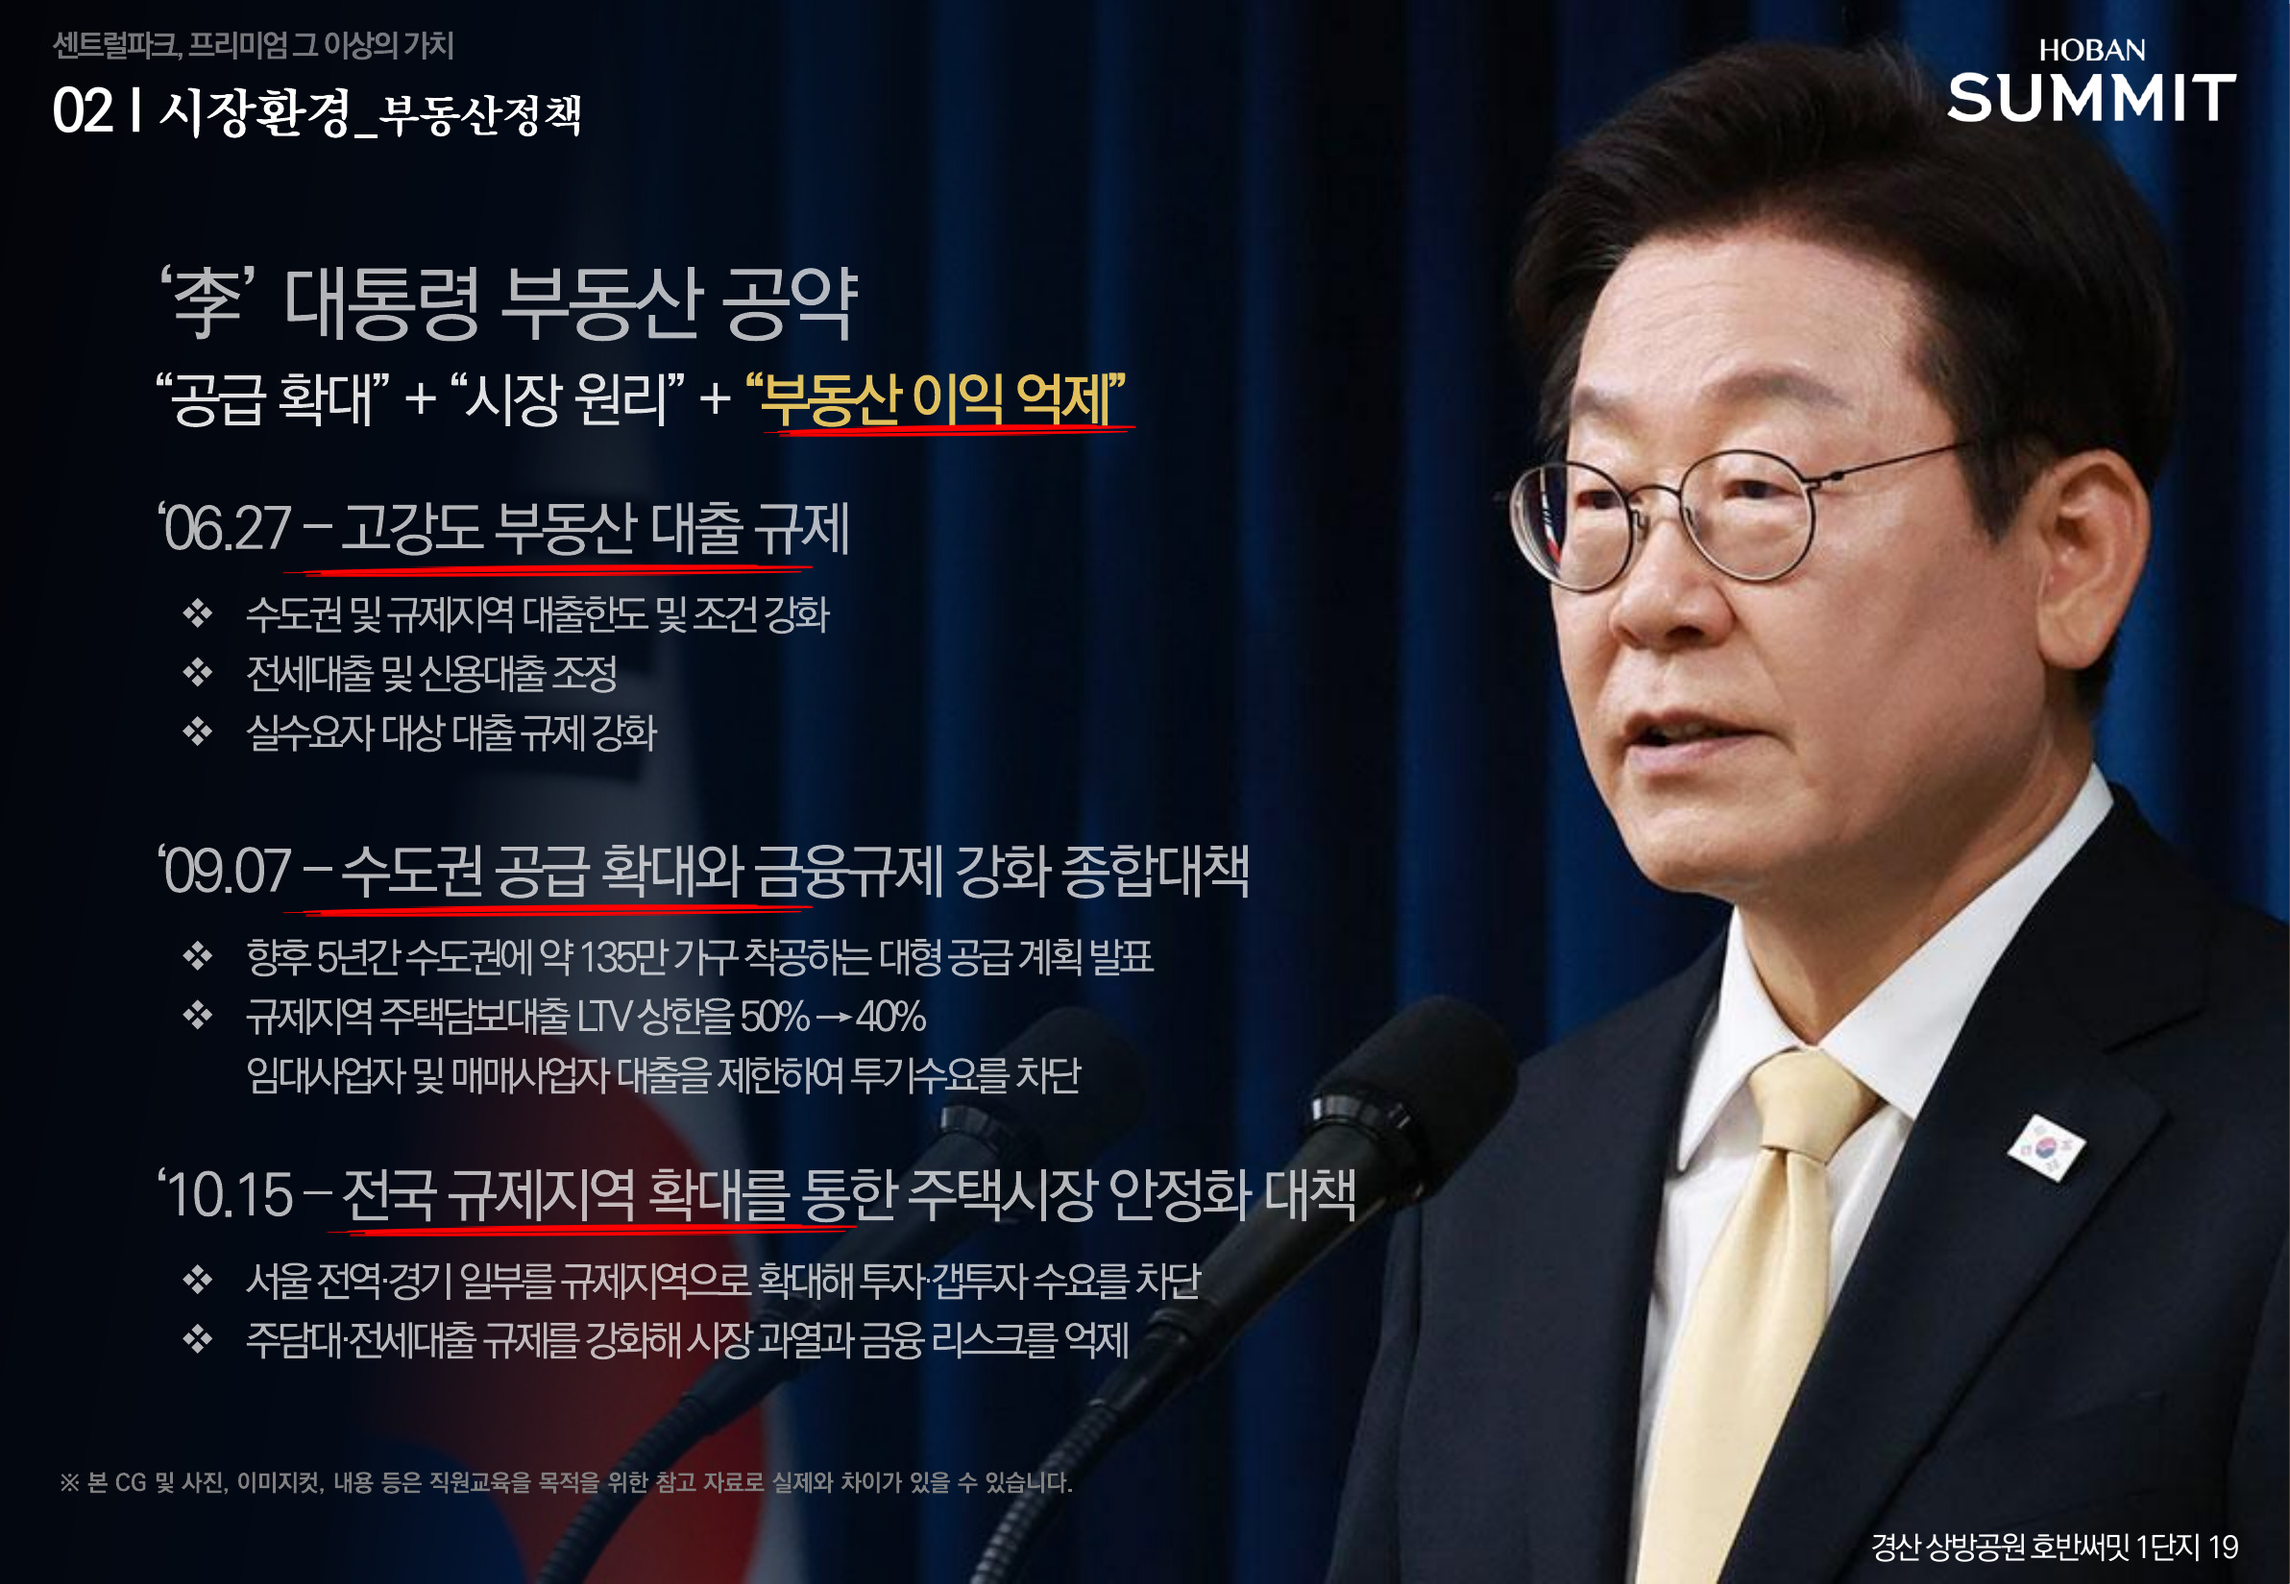
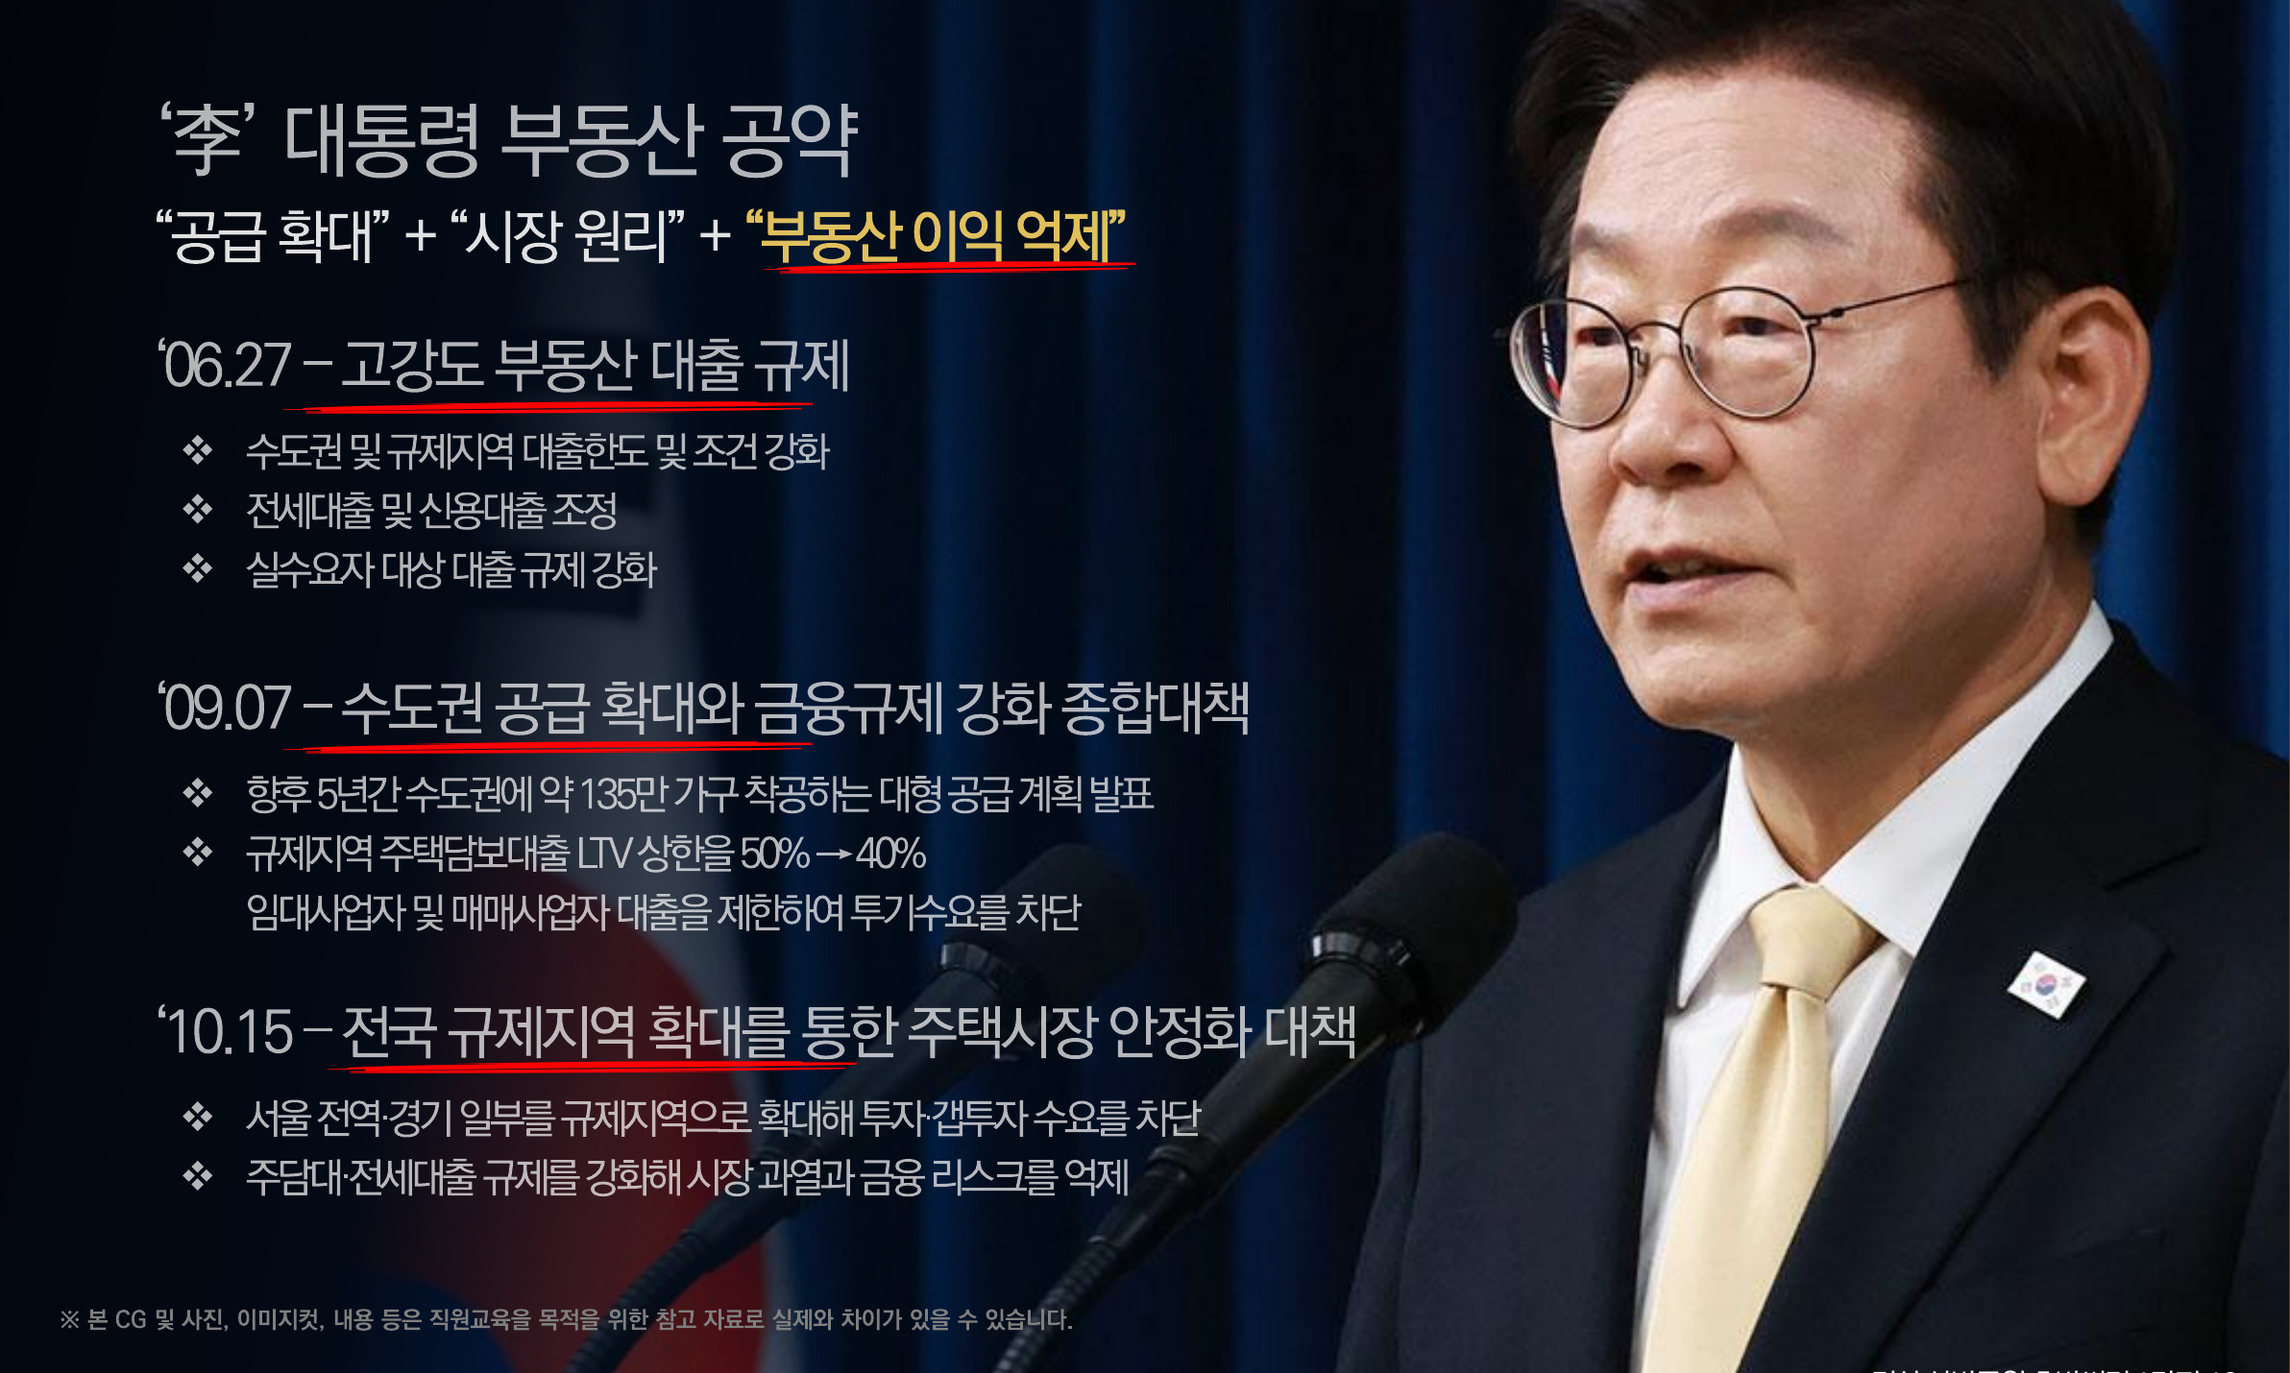
fix: 전 섹션 이미지 직원교육자료 헤더/로고 제거, 입지분석 섹션 제목 변경

diff --git a/src/components/sections/EnvSection.tsx b/src/components/sections/EnvSection.tsx
@@ -9,30 +9,12 @@ import RevealOnScroll from "@/components/common/RevealOnScroll";
 import ImageZoomModal from "@/components/common/ImageZoomModal";
 
 const TABS = [
-  {
-    id: "analysis",
-    label: "입지분석",
-    image: "/images/location/analysis.jpg",
-    title: "시청·경찰서·학군·생활편의시설이 조화된 안정적인 도심 인프라 입지",
-  },
-  {
-    id: "transport",
-    label: "교통환경",
-    image: "/images/location/transport.jpg",
-    title: "임당역(1.7km)·경산역(1.3km) 접근성과 광역도로 이용이 용이한 교통입지",
-  },
-  {
-    id: "education",
-    label: "교육환경",
-    image: "/images/location/education.jpg",
-    title: "경산초(약 400m) 배정 예정, 1.5km 내 중·고교 다수로 학군 접근성 양호",
-  },
-  {
-    id: "living",
-    label: "생활환경",
-    image: "/images/location/living.jpg",
-    title: "공원·체육시설 접근성이 양호한 도심형 생활권",
-  },
+  { id: "analysis",  label: "입지분석",       image: "/images/location/analysis.jpg"  },
+  { id: "transport", label: "교통환경",       image: "/images/location/transport.jpg" },
+  { id: "education", label: "교육환경",       image: "/images/location/education.jpg" },
+  { id: "living",    label: "생활환경",       image: "/images/location/living.jpg"    },
+  { id: "living2",   label: "녹지·공원인프라", image: "/images/location/living2.jpg"   },
+  { id: "sports",    label: "경산생활체육공원", image: "/images/location/sports.jpg"    },
 ];
 
 export default function EnvSection() {
@@ -41,7 +23,7 @@ export default function EnvSection() {
   const activeTab = TABS.find((t) => t.id === active)!;
 
   return (
-    <SectionWrapper id="environment" title="사업의 이해" subtitle="Overview">
+    <SectionWrapper id="environment" title="입지 분석" subtitle="Location Analysis">
       {/* Tabs */}
       <RevealOnScroll>
         <div className="mb-10 flex gap-8 border-b border-neutral-200">
@@ -91,7 +73,7 @@ export default function EnvSection() {
               </div>
             </div>
             <p className="mt-3 text-xs text-neutral-400">
-              * 클릭하여 확대 · {activeTab.title}
+              * 클릭하여 확대 · {activeTab.label}
             </p>
           </motion.div>
         </AnimatePresence>

diff --git a/src/data/navigation.ts b/src/data/navigation.ts
@@ -6,7 +6,7 @@ export const NAV_ITEMS: NavItem[] = [
   { id: "birdseye", label: "단지안내" },
   { id: "floorplan", label: "세대안내" },
   { id: "gallery", label: "갤러리" },
-  { id: "environment", label: "사업의이해" },
+  { id: "environment", label: "입지분석" },
   { id: "market", label: "시장환경" },
   { id: "devenv", label: "개발환경" },
   { id: "selling", label: "셀링포인트" },

diff --git a/src/components/layout/SideNav.tsx b/src/components/layout/SideNav.tsx
@@ -11,7 +11,7 @@ const SECTIONS = [
   { id: "birdseye", label: "단지 안내" },
   { id: "floorplan", label: "세대 안내" },
   { id: "gallery", label: "갤러리" },
-  { id: "environment", label: "사업의이해" },
+  { id: "environment", label: "입지분석" },
   { id: "market", label: "시장환경" },
   { id: "devenv", label: "개발환경" },
   { id: "selling", label: "셀링포인트" },
